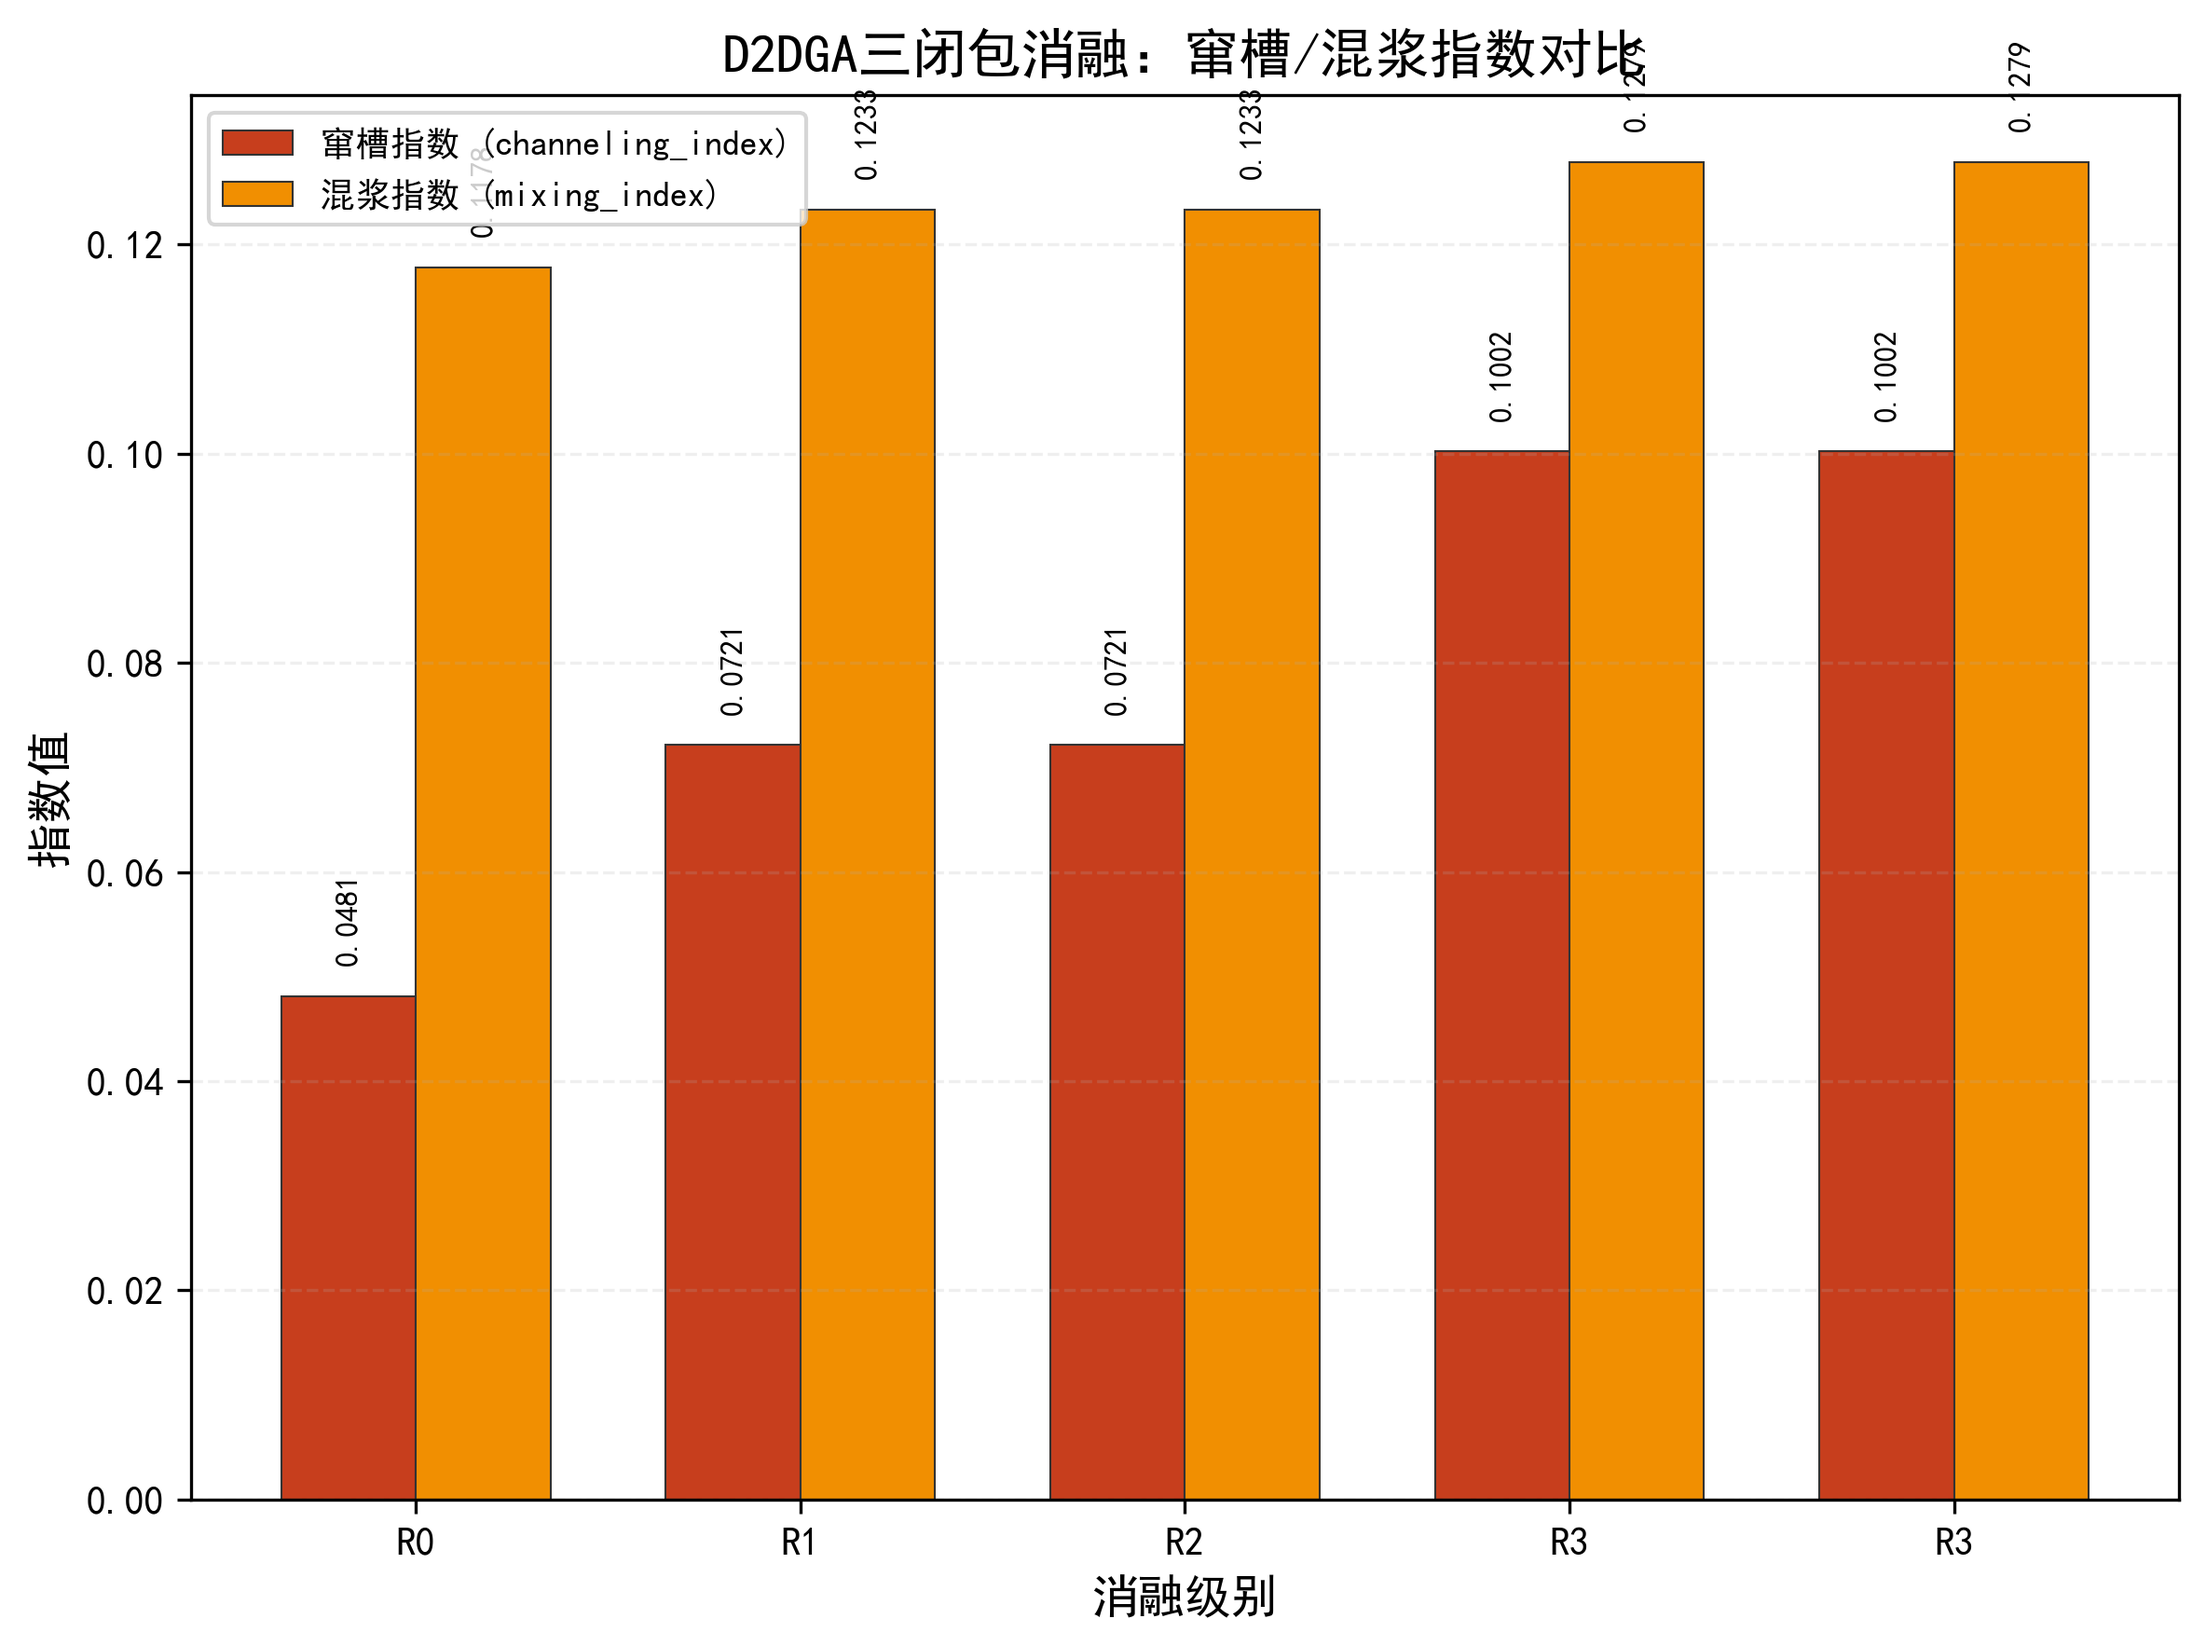
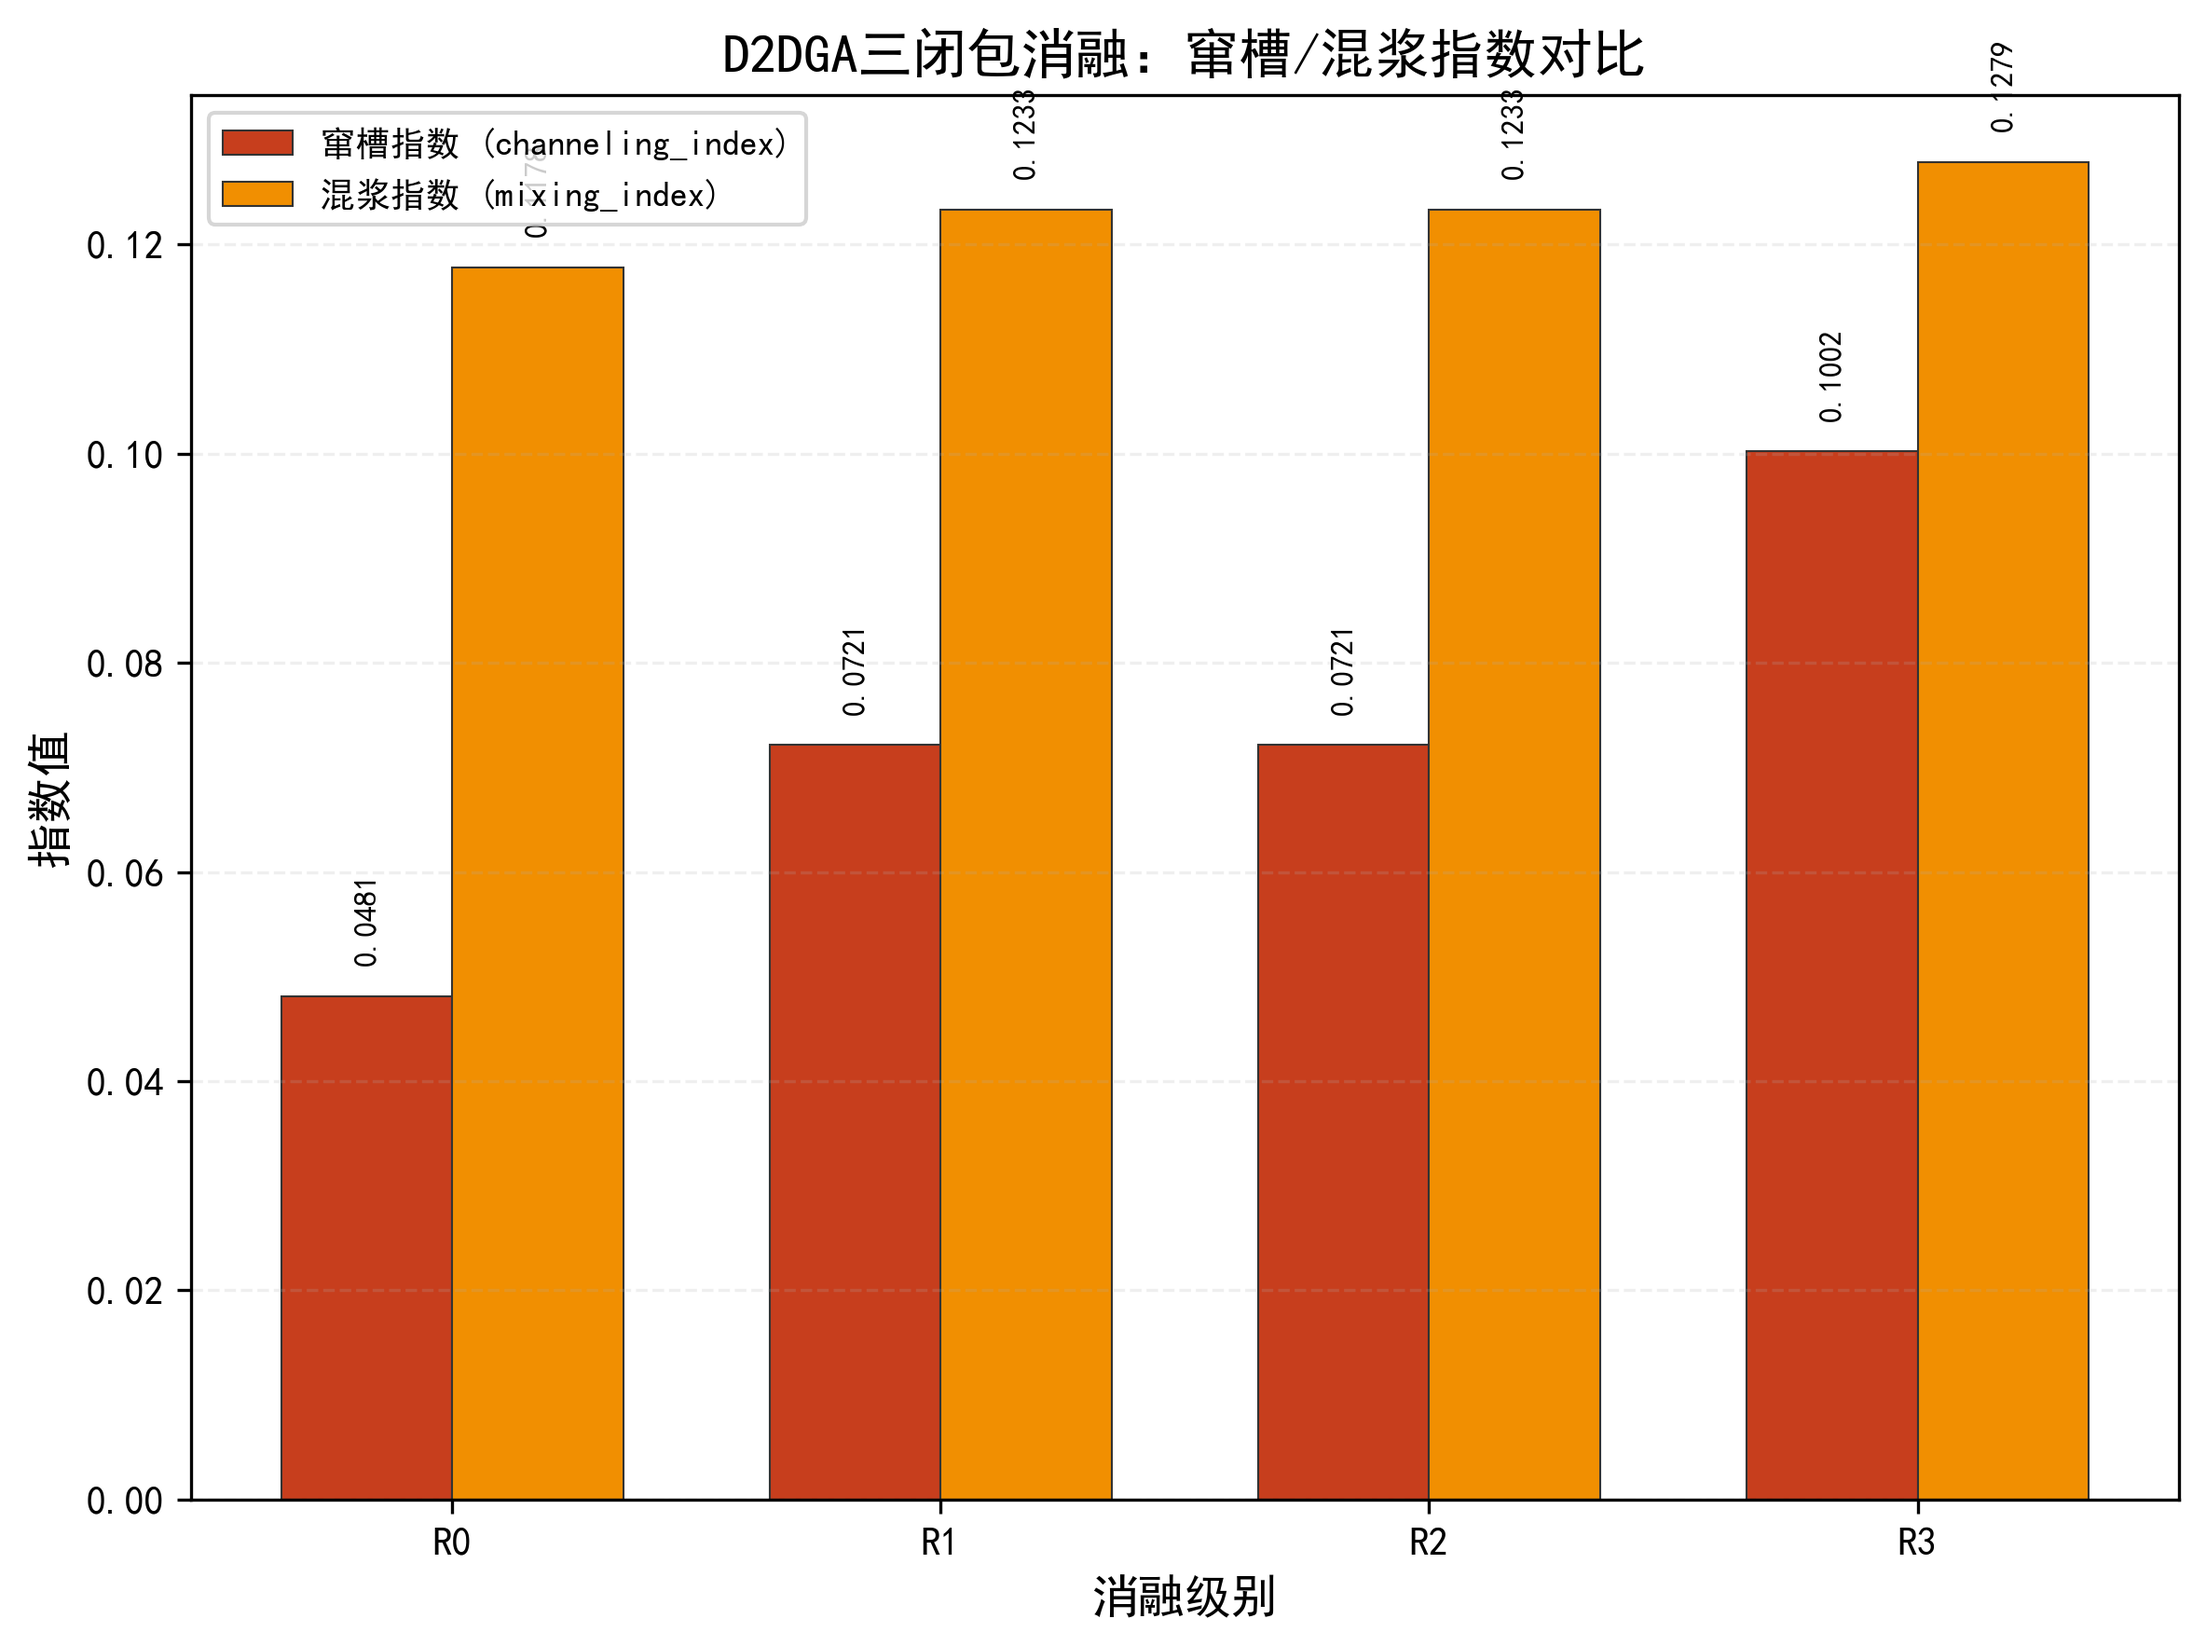
fix(d2dga-paper): 图6/9过滤收敛行泄漏(去重R3) + plots.py __all__ sanctioned imports

diff --git a/cemdisp/reporting/ablation_plots.py b/cemdisp/reporting/ablation_plots.py
@@ -66,8 +66,8 @@ def plot_fig6_ablation_channeling_mixing(
         matplotlib Figure 对象。
     """
     df = pd.read_csv(csv_path)
-    # 筛选 full ablation 行
-    full = df[(df["eccentricity"] == 0.17) & (df["nz"] == 500)].copy()
+    # 筛选 full ablation 行（排除收敛行 convergence_* 避免 R3 重复）
+    full = df[(df["eccentricity"] == 0.17) & (df["nz"] == 500) & ~df["run_id"].str.startswith("convergence")].copy()
     full = full.sort_values("ablation_level")
 
     levels = full["ablation_level"].tolist()
@@ -290,7 +290,7 @@ def plot_fig9_efficiency_evolution(
 
     # --- 左图: 现场偏心 e=17% 的 R0->R3 折线 ---
     ax = axes[0]
-    full = df[(df["eccentricity"] == 0.17) & (df["nz"] == 500)]
+    full = df[(df["eccentricity"] == 0.17) & (df["nz"] == 500) & ~df["run_id"].str.startswith("convergence")]
     full = full.sort_values("ablation_level")
     ax.plot(
         full["ablation_level"], full["effective_efficiency"],

diff --git a/cemdisp/reporting/plots.py b/cemdisp/reporting/plots.py
@@ -316,6 +316,10 @@ _setup_chinese_font()
 
 
 __all__ = [
+    "ACADEMIC_COLORS",
+    "STANDARD_FIGSIZE",
+    "_save_figure",
+    "_setup_chinese_font",
     "plot_depth_profiles",
     "plot_efficiency_summary_bar",
     "plot_risk_indices",
